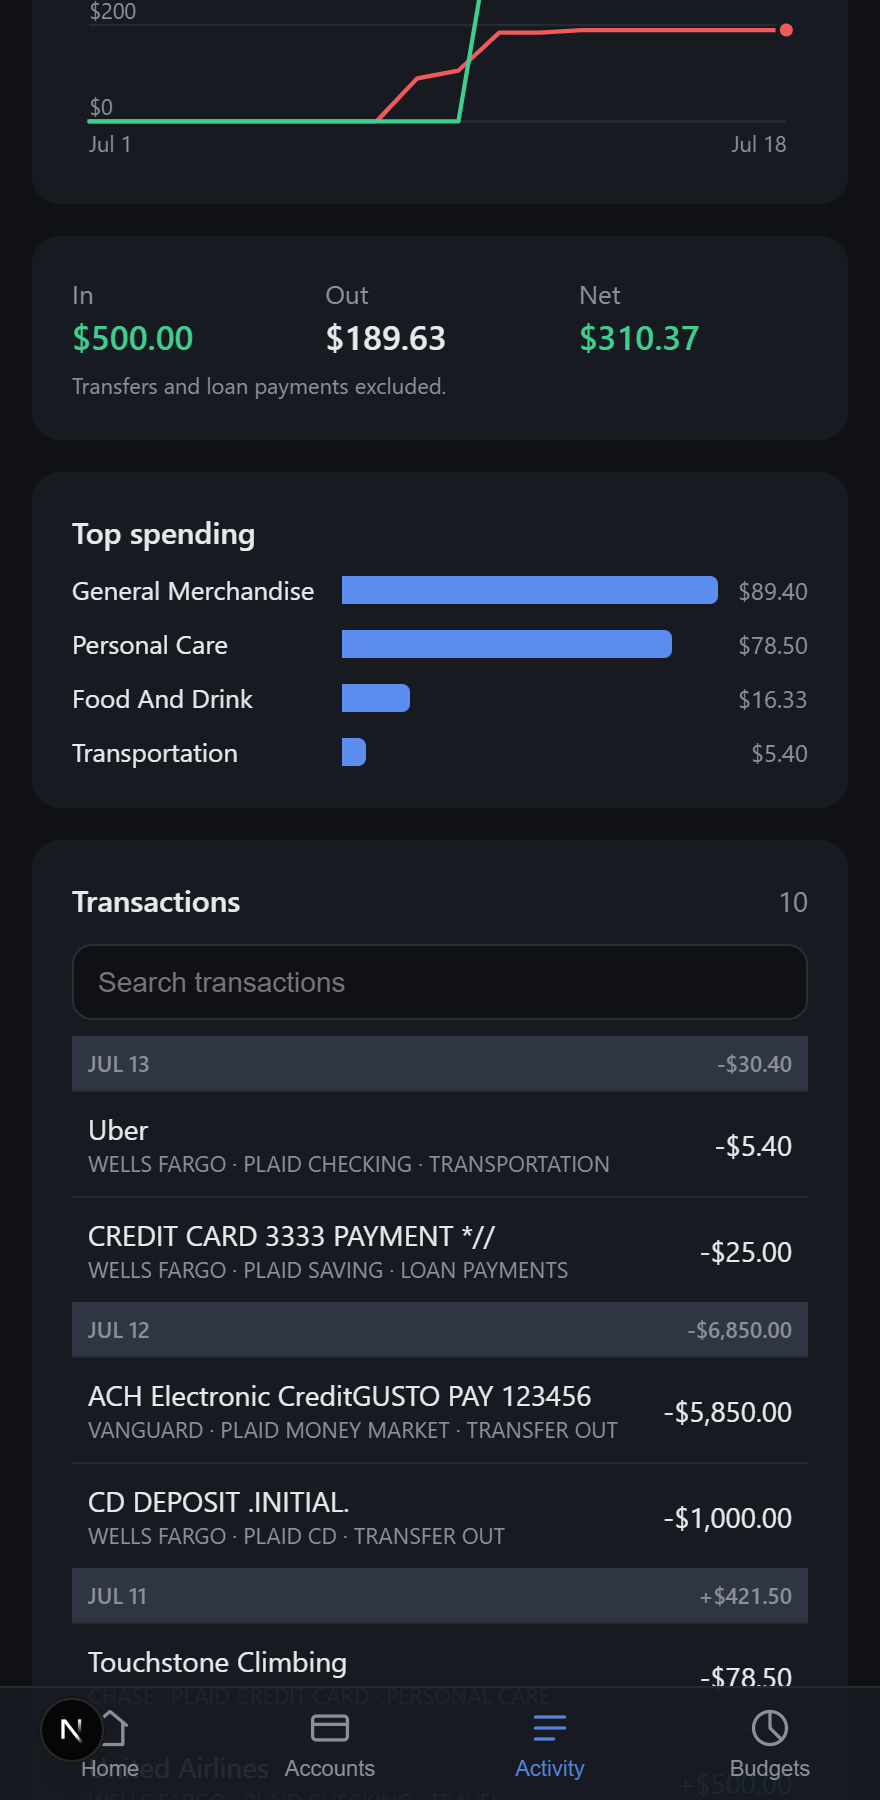
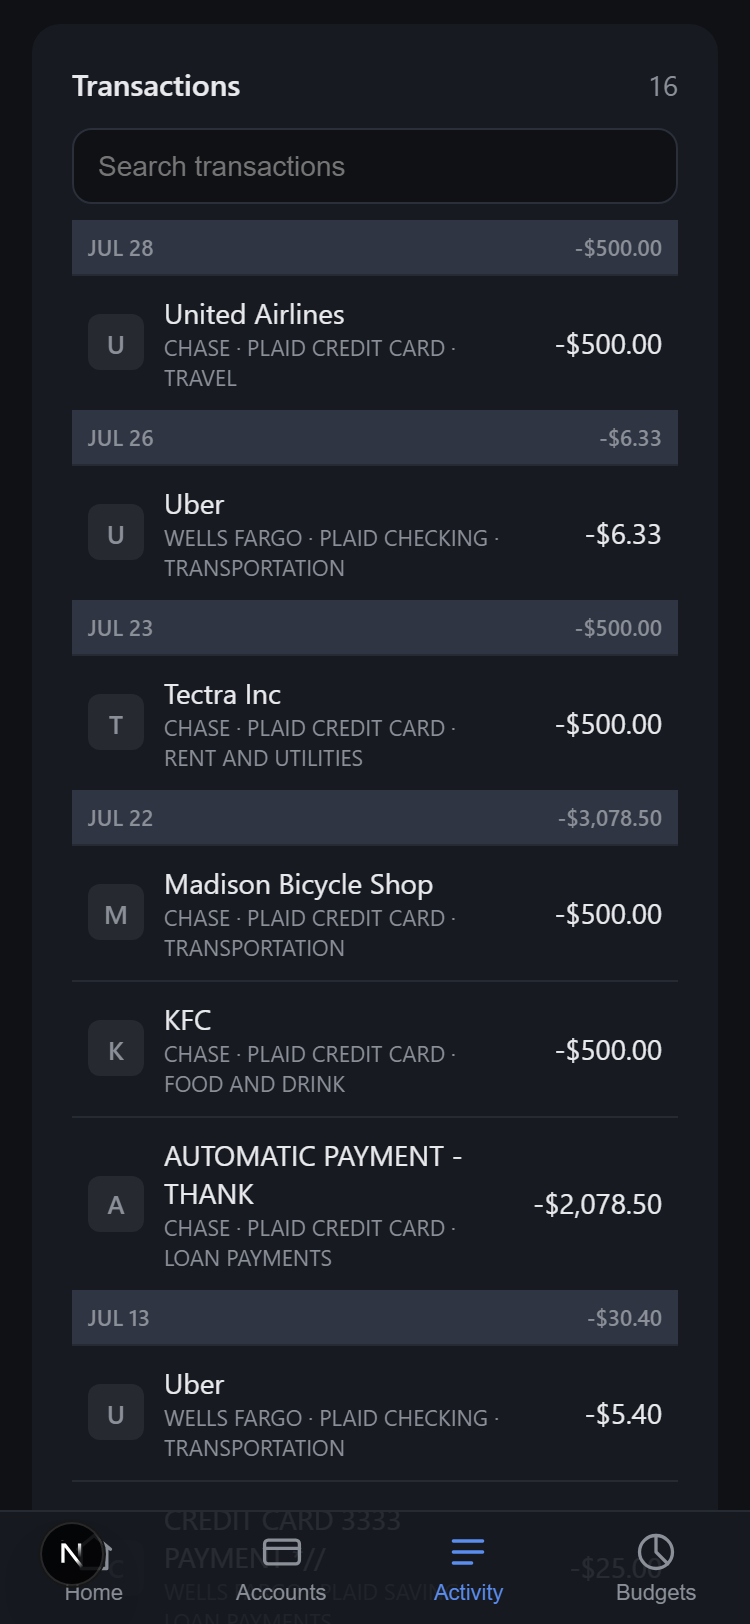
refresh README screenshots for manual and hidden accounts
The captured set was from before manual accounts and hiding existed. Recaptured
every shot at 375x812 with deviceScaleFactor 2, and added five that showcase
what scrolling each tab reveals: manage mode, the Hidden card, expanded
holdings with gain/loss, per-account balance history, and recurring bills.

Also ignores the local capture script, which hardcodes a machine-specific
browser path and signs a session cookie from SESSION_SECRET.

Changed region(s): [[0.0613, 0.0, 0.92, 1.0], [0.828, 0.0616, 0.8893, 0.0924]]

diff --git a/README.md b/README.md
@@ -48,7 +48,13 @@ Redis (via the Vercel Marketplace), and the whole app sits behind a password
 
 ## Screenshots
 
-_Captured in Plaid `sandbox` mode, so the balances and transactions are test data._
+_Captured in Plaid `sandbox` mode, so the balances and transactions are test
+data. Anything named "Plaid ..." is a sandbox fixture; HealthEquity and Alliant
+Credit Union are manual accounts added by hand. The budget meters read $0.00
+because the capture was taken on the 2nd of the month, before anything had
+posted against them._
+
+The four tabs:
 
 <table>
   <tr>
@@ -59,16 +65,47 @@ _Captured in Plaid `sandbox` mode, so the balances and transactions are test dat
   </tr>
   <tr>
     <td><img src="docs/screenshots/home.png" alt="Home tab: net worth, 30-day delta, over-time chart, and insights" width="210"></td>
-    <td><img src="docs/screenshots/accounts.png" alt="Accounts tab: per-institution balance sheet with holdings" width="210"></td>
-    <td><img src="docs/screenshots/activity.png" alt="Activity tab: net-by-month trend, income vs spend chart, and top spending" width="210"></td>
-    <td><img src="docs/screenshots/budgets.png" alt="Budgets tab: category budgets with severity meters and recurring bills" width="210"></td>
+    <td><img src="docs/screenshots/accounts.png" alt="Accounts tab: per-institution balance sheet, with a manual account carrying a Manual badge and a credit card showing utilization against its limit" width="210"></td>
+    <td><img src="docs/screenshots/activity.png" alt="Activity tab: net-by-month trend columns, income vs spend chart, and month totals" width="210"></td>
+    <td><img src="docs/screenshots/budgets.png" alt="Budgets tab: category budgets with severity meters, and savings goals tracked against account balances" width="210"></td>
   </tr>
 </table>
 
-The Activity tab's transaction list groups by day, with a running daily net on
-each date heading:
+Scrolling the Accounts tab: **Manage accounts** reveals the per-account
+**Hide** action (plus Update and Delete on manual accounts, Disconnect on
+linked institutions), hidden accounts collect in their own card at the bottom,
+investment holdings expand with gain/loss against cost basis, and tapping any
+account row opens that account's own balance history.
 
-<img src="docs/screenshots/activity-transactions.png" alt="Transaction list grouped by day with a per-day net summary" width="260">
+<table>
+  <tr>
+    <td align="center"><b>Manage accounts</b></td>
+    <td align="center"><b>Hidden</b></td>
+    <td align="center"><b>Holdings</b></td>
+    <td align="center"><b>Per-account history</b></td>
+  </tr>
+  <tr>
+    <td><img src="docs/screenshots/accounts-manage.png" alt="Manage mode: Update, Hide and Delete on a manual account, Disconnect on each linked institution, and Hide on every account row" width="210"></td>
+    <td><img src="docs/screenshots/accounts-hidden.png" alt="The collapsed Hidden card, expanded to show a hidden 401k with an Unhide button" width="210"></td>
+    <td><img src="docs/screenshots/accounts-holdings.png" alt="Expanded holdings table showing quantity, value, and gain or loss against cost basis per security" width="210"></td>
+    <td><img src="docs/screenshots/accounts-history.png" alt="An account row expanded to show that account's own balance history chart" width="210"></td>
+  </tr>
+</table>
+
+Scrolling Activity gives the transaction list, grouped by day with a running
+daily net on each date heading. Scrolling Budgets gives detected recurring
+bills with their estimated next charge dates:
+
+<table>
+  <tr>
+    <td align="center"><b>Transactions by day</b></td>
+    <td align="center"><b>Recurring bills</b></td>
+  </tr>
+  <tr>
+    <td><img src="docs/screenshots/activity-transactions.png" alt="Transaction list grouped by day with a per-day net summary" width="240"></td>
+    <td><img src="docs/screenshots/budgets-recurring.png" alt="Recurring bills detected from repeating charges, each with its institution, streak length, and estimated next charge date" width="240"></td>
+  </tr>
+</table>
 
 ## 1. Get Plaid API keys
 
